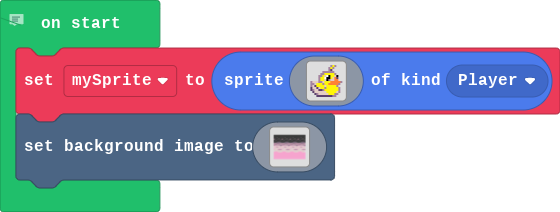
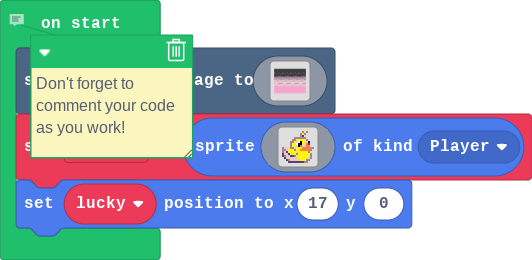
Update main.blocks, main.ts

diff --git a/main.ts b/main.ts
@@ -1,22 +1,4 @@
 // Don't forget to comment your code as you work!
-let mySprite = sprites.create(img`
-    . . . . . . . . . . b 5 b . . . 
-    . . . . . . . . . b 5 b . . . . 
-    . . . . . . . . . b c . . . . . 
-    . . . . . . b b b b b b . . . . 
-    . . . . . b b 5 5 5 5 5 b . . . 
-    . . . . b b 5 d 1 f 5 5 d f . . 
-    . . . . b 5 5 1 f f 5 d 4 c . . 
-    . . . . b 5 5 d f b d d 4 4 . . 
-    b d d d b b d 5 5 5 4 4 4 4 4 b 
-    b b d 5 5 5 b 5 5 4 4 4 4 4 b . 
-    b d c 5 5 5 5 d 5 5 5 5 5 b . . 
-    c d d c d 5 5 b 5 5 5 5 5 5 b . 
-    c b d d c c b 5 5 5 5 5 5 5 b . 
-    . c d d d d d d 5 5 5 5 5 d b . 
-    . . c b d d d d d 5 5 5 b b . . 
-    . . . c c c c c c c c b b . . . 
-    `, SpriteKind.Player)
 scene.setBackgroundImage(img`
     ffffffffffffffffffffffffffffffffffffffffffffffffffffffffffffffffffffffffffffffffffffffffffffffffffffffffffffffffffffffffffffffffffffffffffffffffffffffffffffffff
     ffffffffffffffffffffffffffffffffffffffffffffffffffffffffffffffffffffffffffffffffffffffffffffffffffffffffffffffffffffffffffffffffffffffffffffffffffffffffffffffff
@@ -139,3 +121,22 @@ scene.setBackgroundImage(img`
     3333333333333333333333333333333333333333333333333333333333333333333333333333333333333333333333333333333333333333333333333333333333333333333333333333333333333333
     3333333333333333333333333333333333333333333333333333333333333333333333333333333333333333333333333333333333333333333333333333333333333333333333333333333333333333
     `)
+let lucky = sprites.create(img`
+    . . . . . . . . . . b 5 b . . . 
+    . . . . . . . . . b 5 b . . . . 
+    . . . . . . . . . b c . . . . . 
+    . . . . . . b b b b b b . . . . 
+    . . . . . b b 5 5 5 5 5 b . . . 
+    . . . . b b 5 d 1 f 5 5 d f . . 
+    . . . . b 5 5 1 f f 5 d 4 c . . 
+    . . . . b 5 5 d f b d d 4 4 . . 
+    b d d d b b d 5 5 5 4 4 4 4 4 b 
+    b b d 5 5 5 b 5 5 4 4 4 4 4 b . 
+    b d c 5 5 5 5 d 5 5 5 5 5 b . . 
+    c d d c d 5 5 b 5 5 5 5 5 5 b . 
+    c b d d c c b 5 5 5 5 5 5 5 b . 
+    . c d d d d d d 5 5 5 5 5 d b . 
+    . . c b d d d d d 5 5 5 b b . . 
+    . . . c c c c c c c c b b . . . 
+    `, SpriteKind.Player)
+lucky.setPosition(17, 0)
